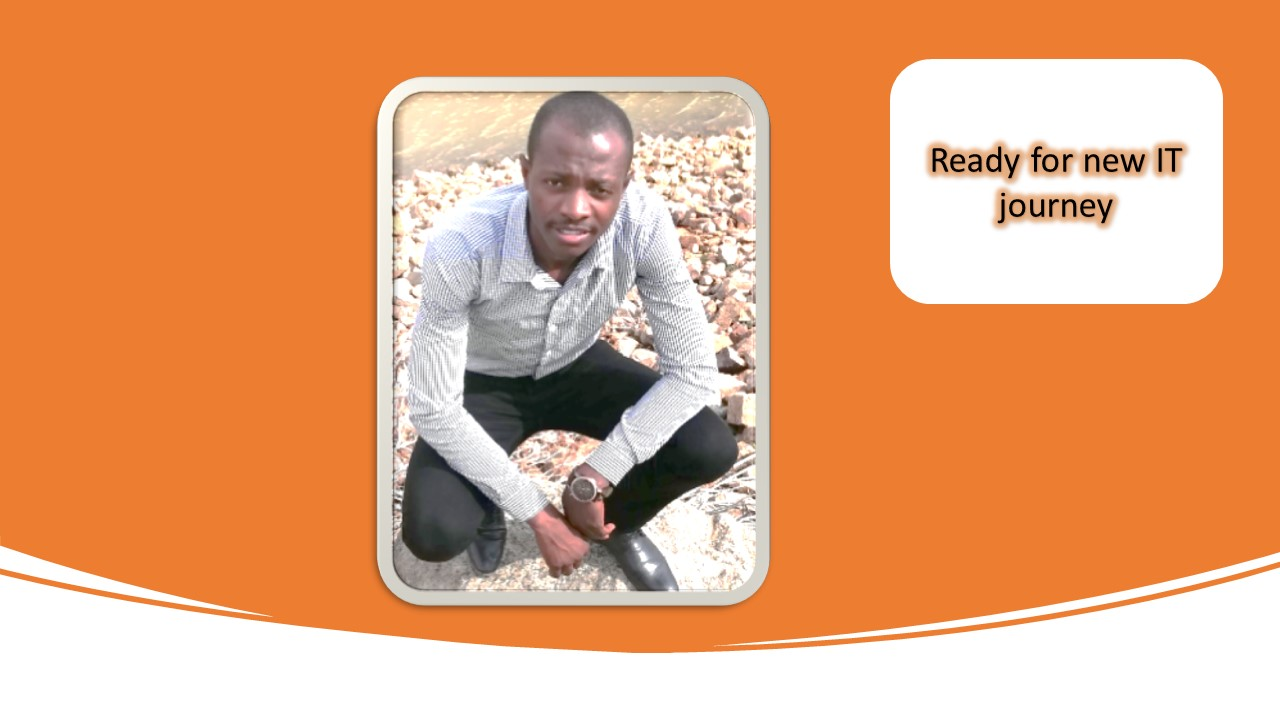
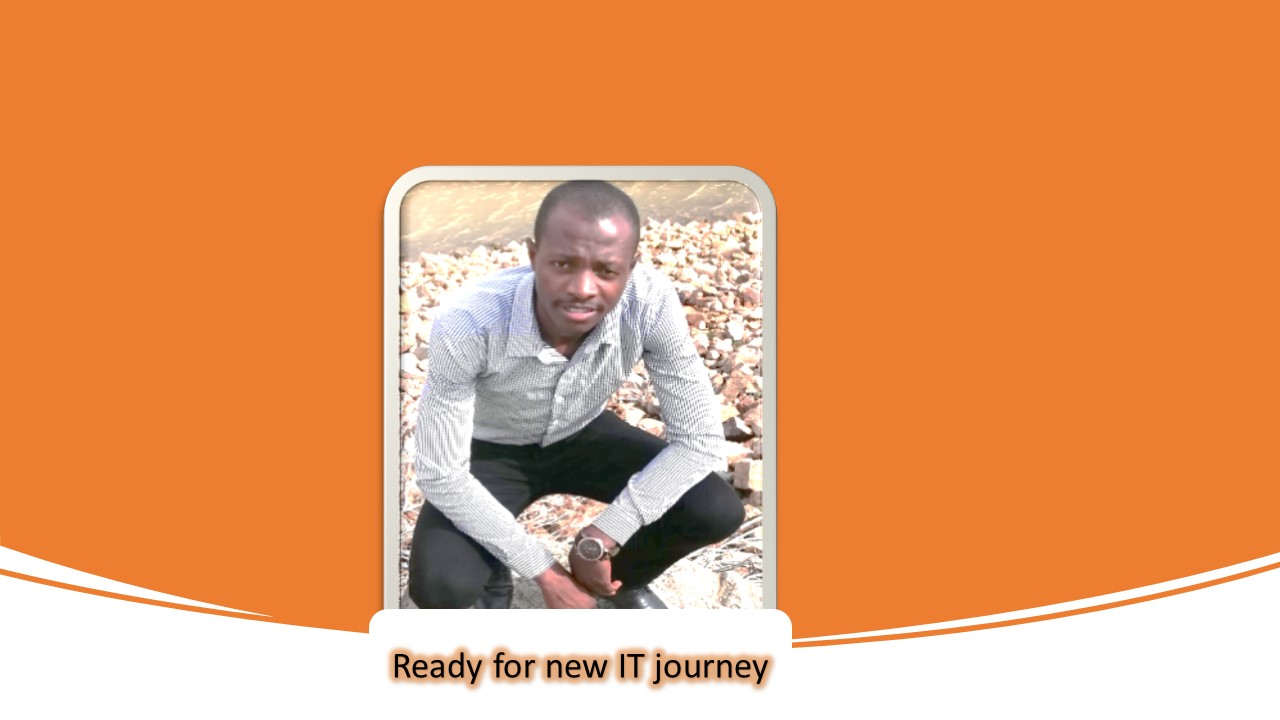
Edited standard-page.html, Slide2.JPG, Slide1.JPG and Slide3.JPG

diff --git a/theme/assets/standard-page.html b/theme/assets/standard-page.html
@@ -68,7 +68,7 @@
 
       .message {
         font-size: 12px;
-        margin-bottom: -10px;
+        margin-bottom: -15px;
         margin-top: 0px;
         text-align: center;
         /*         padding: 20px; */
@@ -102,7 +102,7 @@
       .slideshow-container {
 /*         background-color:#40E0D0;  */
         position: relative;
-        height: 55vh;
+        height: 50vh;
         overflow: hidden;
         display: flex;
         justify-content: center;
@@ -203,11 +203,11 @@
           <nav>
             <ul class="tabs">
               <li><a href="#Home" target="_self"><i class="fas fa-home"></i>Home</a></li>
-              <li><a href="_/theme/new_file.html" target="_self"><i class="fas fa-user"></i>About Author</a></li>
+              <li><a href="_/theme/new_file.html" target="_self"><i class="fas fa-user"></i>About</a></li>
               <li><a href="_/theme/new_file_2.html" target="_self"><i class="fas fa-graduation-cap"></i>Education</a></li>
               <li><a href="_/theme/new_file_6.html" target="_self"><i class="fas fa-briefcase"></i>Experience</a></li>
               <li><a href="_/theme/new_file_3.html" target="_self"><i class="fas fa-code"></i>Projects</a></li>
-              <li><a href="_/theme/new_file_4.html" target="_self"><i class="fas fa-envelope"></i>Contact Author</a></li>
+              <li><a href="_/theme/new_file_4.html" target="_self"><i class="fas fa-envelope"></i>Contact</a></li>
             </ul>
           </nav>
         </header>
@@ -218,14 +218,14 @@
     <main>
 
       <div class="message">
-        <span class="moving-text">Please feel free to click on any of the Tab above,To know more about the author &#x1F914;</span>
+        <span class="moving-text">Please feel free to click on any of the Tab above,To know about me and my career &#x1F914;</span>
       </div>
       <div class="about-site">
         <h1>Hello! </h1>
         <p><h2>Thank you for visiting this website.</h2></p>
         <h2>About the Site</h2>
         <p>
-          Welcome to the author Profile website! Here, you will find comprehensive information about me, my skills, experiences, and achievements in the field of IT. I am a dedicated IT professional with a strong passion for technology and a drive to excel in my work. Within this website, you can explore various tabs to delve deeper into specific aspects of my IT journey. The tabs provide insights into my education, experience, projects, and more. Feel free to navigate through the different sections to get a comprehensive understanding of my IT background and expertise.I am committed to leveraging my technical skills, problem-solving abilities, and collaborative mindset to deliver exceptional results in every project I undertake. Through continuous learning and keeping up with industry advancements, I strive to stay at the forefront of technology and contribute meaningfully to the IT landscape. Should you have any questions or would like to connect with me, please don't hesitate to reach out. I look forward to connecting with you!
+          Welcome to my profile website! Here, you will find comprehensive information about me, my skills, experiences, and achievements in the field of IT. I am a dedicated IT professional with a strong passion for technology and a drive to excel in my work. Within this website, you can explore various tabs to delve deeper into specific aspects of my IT journey. The tabs provide insights into my education, experience, projects, and more. Feel free to navigate through the different sections to get a comprehensive understanding of my IT background and expertise.I am committed to leveraging my technical skills, problem-solving abilities, and collaborative mindset to deliver exceptional results in every project I undertake. Through continuous learning and keeping up with industry advancements, I strive to stay at the forefront of technology and contribute meaningfully to the IT landscape. Should you have any questions or would like to connect with me, please don't hesitate to reach out. I look forward to connecting with you!
         </p>
 
       </div>
